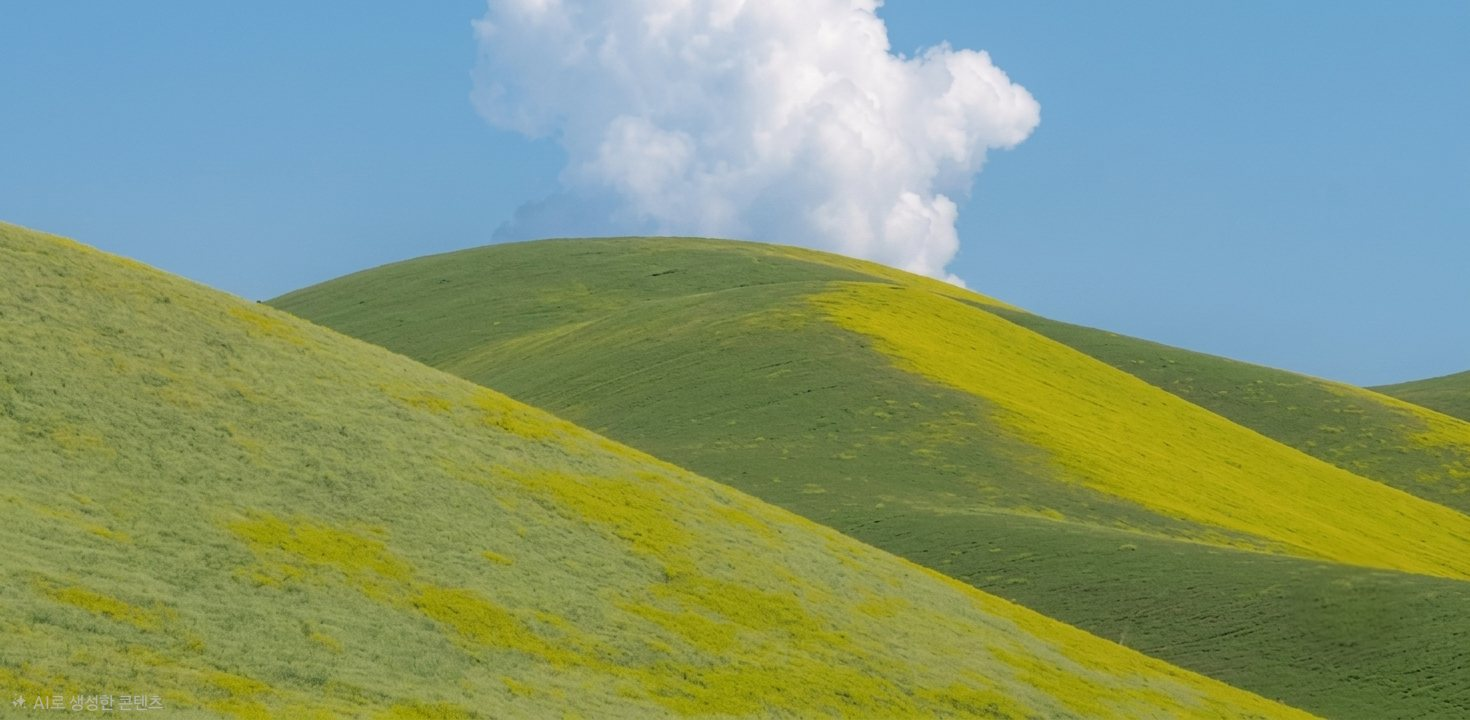
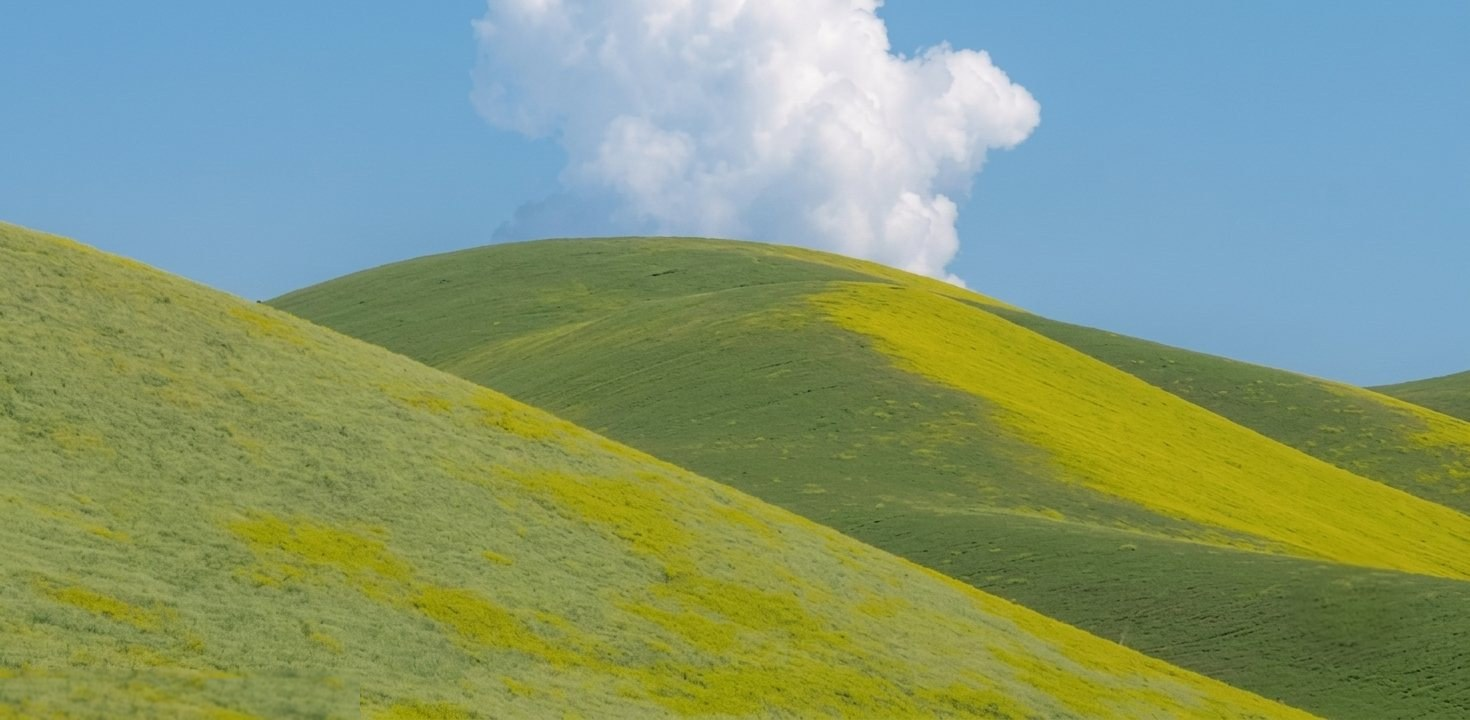
Center about, lift projects chip, remove hills watermark

Changed region(s): [[0.0, 0.9167, 0.2449, 1.0]]

diff --git a/src/Portfolio.tsx b/src/Portfolio.tsx
@@ -23,7 +23,7 @@ const FOOTER_NOTE_EN = 'I DESIGN THINGS THAT FIT RIGHT IN'
 const FOOTER_NOTE_KO = '저는 사용자 니즈에 맞춰 잘 스며들게 디자인합니다.'
 const PROFILE_IMAGE = '/profile.jpg'
 const PROJECT_VIDEO = '/plan-with.mp4'
-const BACKDROP = '/hills.jpg'
+const BACKDROP = '/hills.jpg?v=2'
 const SHOT_MAIN = '/plan-with-main.jpg'
 const SHOT_AI = '/plan-with-ai.jpg'
 const SHOTS = [
@@ -642,7 +642,7 @@ function About({ hoverHandlers }: { hoverHandlers: Hover }) {
   return (
     <section
       id="about"
-      className="relative flex min-h-[92svh] scroll-mt-4 items-start px-5 pb-16 pt-10 sm:px-10 sm:pt-12 lg:px-16"
+      className="relative flex min-h-[92svh] scroll-mt-4 items-center px-5 py-20 sm:px-10 lg:px-16"
     >
       <div className="grid w-full items-center gap-12 lg:grid-cols-[1.05fr_0.95fr]">
         <div className="relative">
@@ -697,12 +697,12 @@ function Projects({
       className="relative flex min-h-[92svh] scroll-mt-4 flex-col justify-center px-4 py-20"
     >
       <div className="relative mx-auto w-full max-w-6xl">
-        <div className="relative mb-14 text-center">
+        <div className="relative mb-14 pt-14 text-center">
           <Chip
             label="Projects"
             chip="bg-[#e5f2fa]"
             accent="#039cfb"
-            className="absolute left-[calc(50%+88px)] top-[-22px] hidden sm:flex"
+            className="absolute left-[calc(50%+72px)] top-0 hidden sm:flex"
             rotate={12}
             scale={0.95}
           />
